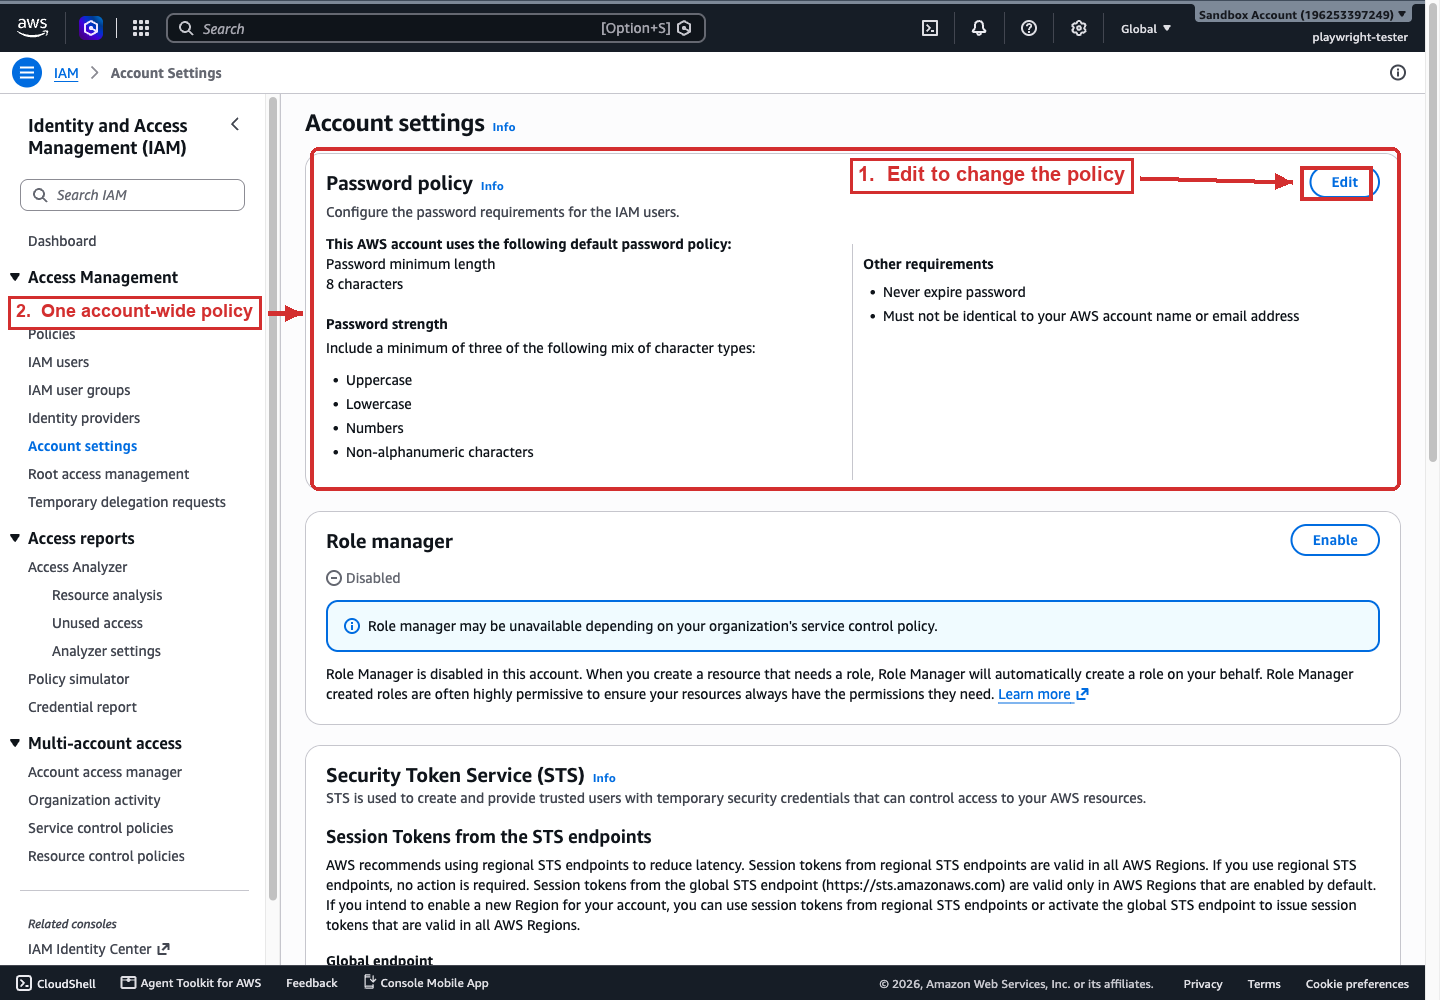
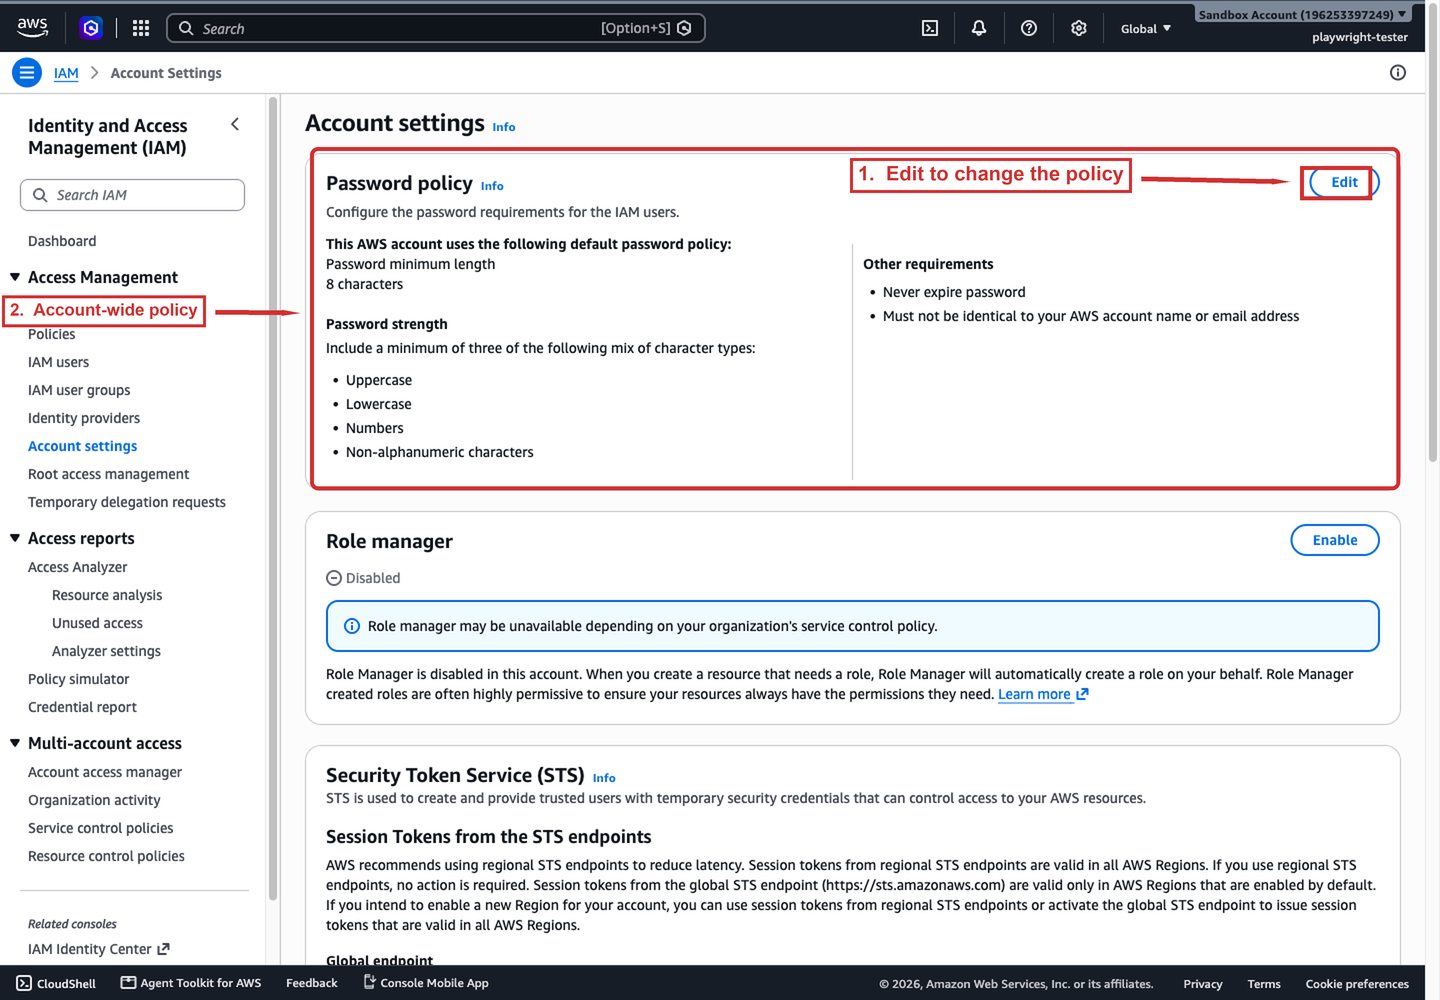
docs: minimum arrow length and crisp annotation rendering
- Add an arrow-length rule (>= ~50 px) and a render-quality rule to the
  screenshot annotation standard in AGENTS.md section 67.
- Redraw all eight annotated screenshots with a 3x supersampled canvas and a
  butt-capped shaft that stops at the arrowhead base, so the tip is crisp and
  the line no longer bleeds past the point.

Changed region(s): [[0.0, 0.279, 0.2188, 0.341], [0.625, 0.155, 0.8125, 0.186], [0.875, 0.155, 0.9062, 0.186]]

diff --git a/AGENTS.md b/AGENTS.md
@@ -3032,7 +3032,9 @@ Where a screenshot contains a field or value the prose refers to, mark it with a
 + **Highlight box.** Outline the target element with a single-color rectangle that hugs it, so it is clear exactly which control the number refers to.
 + **Label box.** Draw each numbered label as a rectangle over whitespace, holding the number and a short phrase (for example `1. Choose the principal`). The label box must not cover the element it points at or any other value on the screen.
 + **Arrow endpoints.** The arrow starts at the edge of the label box and ends at the edge of the target's highlight box, leaving a few pixels of clearance at each end. The arrow must not start or end inside either box, must not overlap or cross the label text, and must not cross any other label.
++ **Arrow length.** Give every arrow a minimum length, roughly 50 px, so it reads as an arrow and not a stub. A short arrow that barely leaves the label box is not acceptable. When the label sits close to its target, move the label farther away so the arrow can run horizontally, vertically, or diagonally to reach the target, whichever direction avoids crossing screen content.
 + **One arrow per number.** Every numbered label has exactly one arrow to exactly one target. Do not leave a label without an arrow, or an arrow without a label.
++ **Render quality.** Draw annotations on a supersampled canvas (for example 3x the screenshot size) and downscale to the target size, so diagonal shafts and arrowheads are anti-aliased rather than pixelated. End the arrow shaft at the base of the arrowhead (a flat, butt cap), never at the tip, so the stroke does not bleed past the point. Never draw arrows at 1:1 on the screenshot canvas; the thin diagonal lines and the tip render blurry and distorted.
 
 Annotate after capturing with a local image library (for example Pillow); do not modify the AWS page itself, and do not annotate marketing or purely informational screens. Open the finished image and check it: if any arrow overlaps a label box or stops short of its target highlight, redraw it.
 
